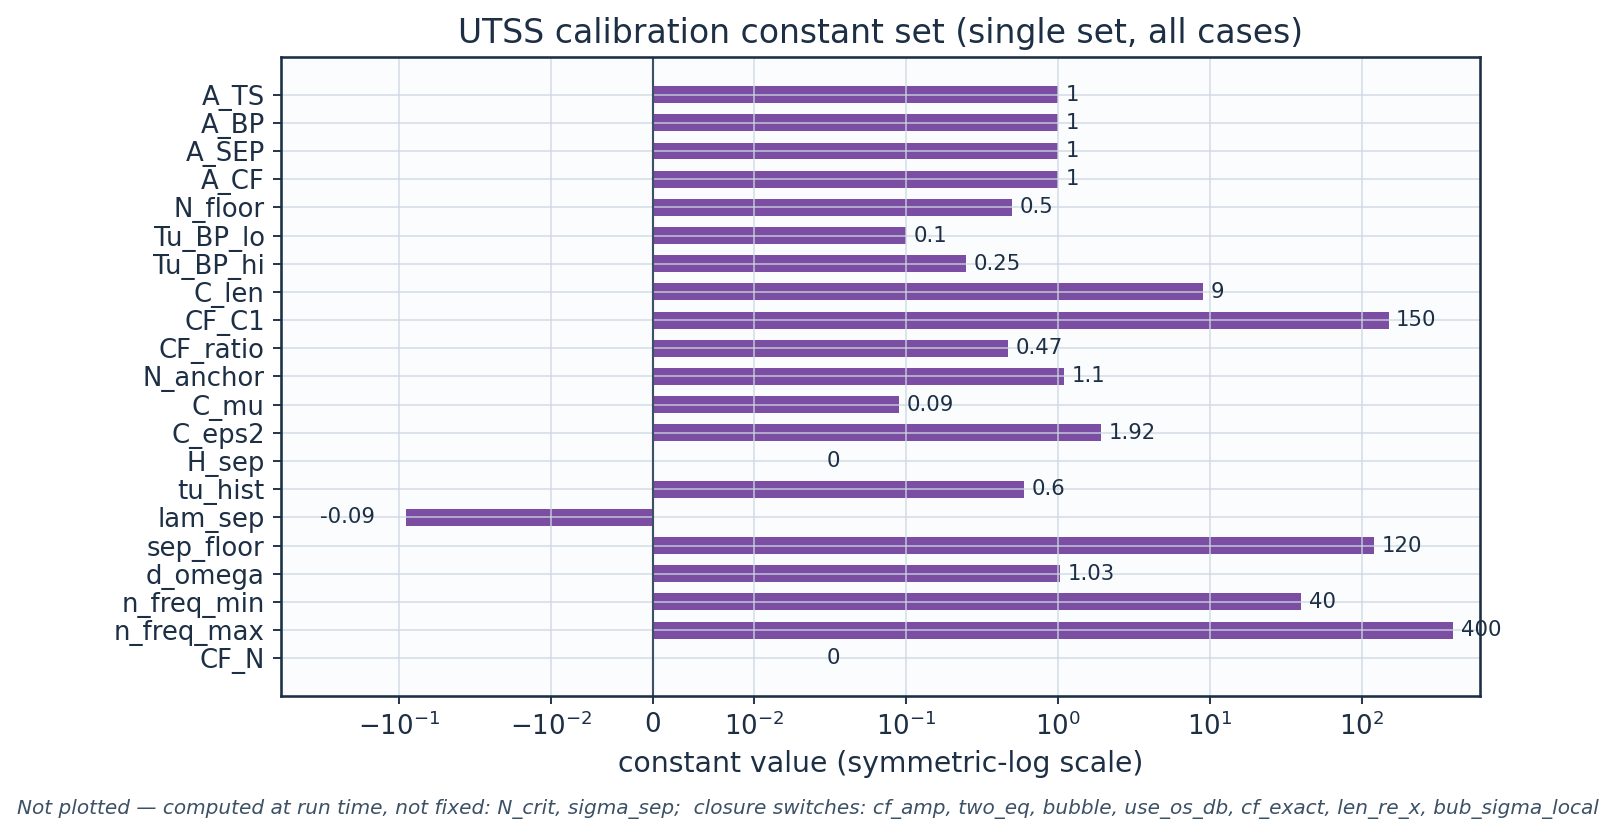
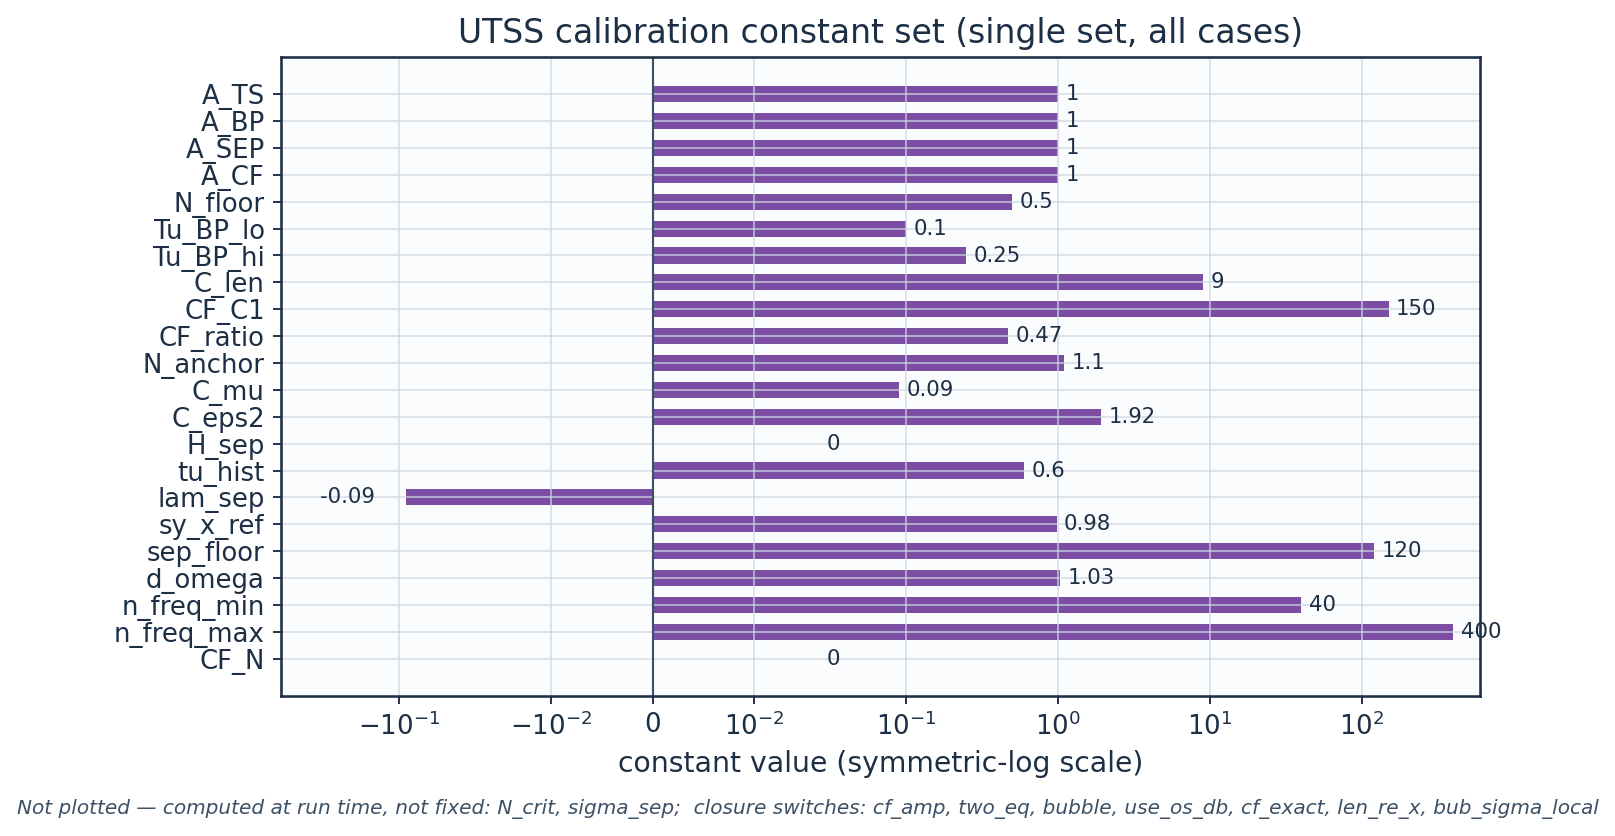
Fifth pass: declare where the drag is evaluated, and that H there is a clamp
The evaluation station of Squire-Young was an undeclared constant sitting under
the headline drag, and it is worth more than anything this study does sweep.

* WHERE.  The formula wants the trailing edge and a panel method cannot supply
  one - it drives the edge velocity to the stagnation value there, and the
  exponent (H+5)/2 turns that into 18 counts against 47.3 - so the evaluation
  is pulled forward to 0.98c.  Nothing measured what that costs.  It is 42.5
  counts at 0.88c against 47.3 at 0.98c, about half a count per per cent of
  chord: an order more than the transition-length constant, whose cost over a
  factor of four is already measured next door at a tenth of a count.  The
  station is a CAL key now, and 04_solution/squire_young_station_sensitivity.csv
  sweeps it.  The docstring said "the result is insensitive to the
  discretisation", which is true of the panel count and reads as a claim about
  the station.

* AND WHETHER THE SHAPE FACTOR THERE IS SOLVED.  Head's entrainment method has
  no validity past separation, so H_turb is clamped at 2.8.  At the evaluation
  station the climb case is ON that clamp, and so are six of the twelve polar
  points - every incidence above about 3 degrees.  The drag at those points is
  formed from a bound, not from a solved shape factor.  This project already
  flagged precisely that hazard for the trailing-edge separation margin
  (H_te_at_clip, which describes the LAST station) and had never applied it to
[…]

Changed region(s): [[0.0619, 0.0933, 0.9288, 0.8086]]

diff --git a/solver/utss_solver.py b/solver/utss_solver.py
@@ -120,6 +120,18 @@ CAL = dict(
     bubble    = True,   # close the separation branch by continuing the
                         # amplification integral through the detached shear
                         # layer instead of transitioning at separation itself
+    sy_x_ref  = 0.98,   # chordwise station at which Squire-Young is evaluated.
+                        # NOT a discretisation parameter: the drag depends on it
+                        # strongly - 42.5 counts at 0.88 against 47.3 at 0.98 on
+                        # the cruise section - because theta grows and the panel
+                        # method collapses U_e towards the trailing edge, and
+                        # Squire-Young raises that ratio to (H+5)/2.  It is
+                        # exposed so that what the choice costs can be measured
+                        # (04_solution/squire_young_station_sensitivity.csv)
+                        # rather than left as an undeclared constant under the
+                        # headline drag.  0.98 is the last station at which the
+                        # cruise shape factor is still solved rather than
+                        # sitting on Head's H = 2.8 clamp; see H_sy_at_clip.
     len_re_x  = False,  # state the transition-length correlation in Re_x, the
                         # form Dhawan & Narasimha published it in, rather than
                         # in Re_theta.  Identical on a flat plate; the Re_theta
@@ -1845,16 +1857,34 @@ def solve_airfoil(xb, yb, alpha_deg, U, nu, chord, Tu_pct,
     al = np.radians(alpha_deg)
     Cl = Cn*np.cos(al) - Ca*np.sin(al)
     # profile drag via Squire-Young on each surface
-    def squire_young(r, x_ref=0.98):
+    def squire_young(r, x_ref=None):
         """Squire-Young profile drag, already referred to the streamwise frame.
 
-        The formula is evaluated at 98% chord rather than at the last panel
-        control point.  A panel method drives the edge velocity towards the
-        stagnation value at a sharp trailing edge, so the final control point
-        sits inside that collapse; since Squire-Young raises Ue/Uinf to the
-        power (H+5)/2, taking the last point makes the drag hypersensitive to
-        the panel distribution.  At 98% chord the boundary-layer solution is
-        still meaningful and the result is insensitive to the discretisation.
+        The formula is evaluated at cal["sy_x_ref"], 98% chord, rather than at
+        the last panel control point.  A panel method drives the edge velocity
+        towards the stagnation value at a sharp trailing edge, so the final
+        control point sits inside that collapse; since Squire-Young raises
+        Ue/Uinf to the power (H+5)/2, taking the last point makes the drag
+        hypersensitive to the panel distribution - at the last point itself the
+        cruise section returns 18 counts against 47.
+
+        WHAT THAT CHOICE COSTS.  The result is insensitive to the PANEL COUNT
+        at this station, which is what this docstring used to say; it is NOT
+        insensitive to the station.  The drag runs from 42.5 counts at 0.88c to
+        47.3 at 0.98c, about half a count per per cent of chord, which is an
+        order more than the transition-length constant is worth over a factor
+        of four.  That is measured into
+        04_solution/squire_young_station_sensitivity.csv rather than left
+        undeclared.
+
+        AND WHETHER THE SHAPE FACTOR THERE IS SOLVED.  Head's entrainment
+        method has no validity past separation, so H_turb is clamped at 2.8.
+        On the climb case and at every incidence above about 3 degrees the
+        upper surface is ON that clamp at 0.98c, so the drag is being formed
+        from a bound rather than from a solved shape factor.  This project
+        already flags exactly that hazard for the trailing-edge separation
+        margin (H_te_at_clip) and did not for the drag, which is the headline
+        number.  H_sy_at_clip says which it is, per surface.
 
         On a swept strip the conversion out of the normal plane is NOT the
         cos^2(L) the lift takes, and it is not a scaling of Squire-Young at all
@@ -1865,6 +1895,8 @@ def solve_airfoil(xb, yb, alpha_deg, U, nu, chord, Tu_pct,
         it depends on that surface's own trailing-edge shape factor and edge
         velocity ratio.
         """
+        if x_ref is None:
+            x_ref = float(cal.get("sy_x_ref", 0.98)) if cal else 0.98
         xs = np.asarray(r["x"], float)
         cand = np.where(xs > 0.5)[0]
         i = (cand[np.argmin(np.abs(xs[cand] - x_ref))] if len(cand)
@@ -1873,6 +1905,10 @@ def solve_airfoil(xb, yb, alpha_deg, U, nu, chord, Tu_pct,
         r["theta_te_c"] = float(th_te/chord)
         r["Ue_te_ratio"] = float(Ue_te/U)
         r["H_te_squire_young"] = float(H_te)
+        r["x_squire_young"] = float(xs[i])
+        # Head's clamp is 2.8; on it, H is a bound and not a solved quantity,
+        # and the drag formed from it is reporting the bound.
+        r["H_sy_at_clip"] = bool(H_te >= 2.8 - 1e-6)
         return 2.0*th_te/chord*_swept_drag_factor(Ue_te/U, H_te, sweep_deg,
                                                   swept=swept)
     Cd = squire_young(res["upper"]) + squire_young(res["lower"])

diff --git a/run_solution.py b/run_solution.py
@@ -66,6 +66,13 @@ def transition_summary(rc, rl):
                 H_te=round(float(s["H_te"]),3),
                 H_te_at_clip=bool(s["H_te_at_clip"]),
                 sep_margin_H=round(float(s["sep_margin_H"]),3),
+                # Whether the SQUIRE-YOUNG station's shape factor is solved or
+                # is Head's H = 2.8 clamp.  H_te_at_clip above describes the
+                # last station; the drag is formed at 0.98c, and on the climb
+                # case that station is on the clamp too.
+                x_sy_c=round(float(s["x_squire_young"]),4),
+                H_sy=round(float(s["H_te_squire_young"]),3),
+                H_sy_at_clip=bool(s["H_sy_at_clip"]),
                 x_sep_turb_c=(round(float(s["x_sep_turb_chord"]),3)
                               if s["x_sep_turb_chord"]==s["x_sep_turb_chord"]
                               else None)))
@@ -83,6 +90,8 @@ def aero_polar():
             L_over_D=round(r["Cl"]/max(r["Cd"],1e-9),1),
             # the thin-layer assumption Squire-Young rests on, made visible
             theta_te_c=round(r["theta_te_c"],5),
+            # half this sweep evaluates Squire-Young on the H = 2.8 clamp
+            H_sy_at_clip=bool(u["H_sy_at_clip"] or l["H_sy_at_clip"]),
             xtr_upper_c=round(u["x_tr_chord"],3) if u["x_tr_chord"]==u["x_tr_chord"] else 1.0,
             xtr_lower_c=round(l["x_tr_chord"],3) if l["x_tr_chord"]==l["x_tr_chord"] else 1.0))
     df=pd.DataFrame(rows); df.to_csv(f"{SOL}/aero_polar.csv",index=False)
@@ -482,6 +491,42 @@ def transition_length_sensitivity():
     return df
 
 
+def squire_young_station_sensitivity():
+    """What the case-study drag owes to WHERE Squire-Young is evaluated.
+
+    The formula wants the trailing edge, and a panel method cannot supply one:
+    it drives the edge velocity towards the stagnation value there, and
+    Squire-Young raises that ratio to (H+5)/2, so the last control point returns
+    18 counts against 47.  The evaluation is therefore pulled forward to 0.98c.
+
+    That is a choice, and unlike the transition-length constant - whose cost is
+    already measured next door, at a tenth of a count over a factor of four -
+    nothing measured this one.  It is worth about half a count per per cent of
+    chord.  The sweep also reports whether the shape factor at each station is
+    still solved or has reached Head's H = 2.8 clamp, because past the clamp the
+    drag is being formed from a bound.
+    """
+    X,Y=C.nlf16_panel_points(130); rows=[]
+    for xr in (0.88,0.90,0.92,0.94,0.96,0.98,0.99):
+        r=solve_airfoil(X,Y,cr["alpha_deg"],cr["U_inf"],cr["nu_inf"],W["MAC"],
+                        cr["Tu_pct"],sweep_deg=W["le_sweep_deg"],
+                        mach=cr["mach"],T_inf_K=cr["T_inf_K"],
+                        cal=dict(sy_x_ref=xr))
+        u=r["surfaces"]["upper"]; l=r["surfaces"]["lower"]
+        rows.append(dict(x_ref=xr,
+            x_evaluated_upper=round(float(u["x_squire_young"]),4),
+            Cd_counts=round(r["Cd"]*1e4,2),
+            H_upper=round(float(u["H_te_squire_young"]),3),
+            H_lower=round(float(l["H_te_squire_young"]),3),
+            theta_te_c_upper=round(float(u["theta_te_c"]),6),
+            H_on_Head_clamp=bool(u["H_sy_at_clip"] or l["H_sy_at_clip"])))
+    df=pd.DataFrame(rows)
+    df["delta_from_shipped_counts"]=(df.Cd_counts
+                                     - float(df[df.x_ref==0.98].Cd_counts.iloc[0])).round(2)
+    df.to_csv(f"{SOL}/squire_young_station_sensitivity.csv",index=False)
+    return df
+
+
 def integrated_forces(rc):
     q=cr["q_inf"]; S=W["area_S"]
     ll=lifting_line()
@@ -529,9 +574,11 @@ if __name__=="__main__":
     nvt,cdn,cdt=nlf_vs_turbulent(rc)
     integrated_forces(rc)
     tls=transition_length_sensitivity()
+    sys_=squire_young_station_sensitivity()
     print("=== TRANSITION SUMMARY ==="); print(ts.to_string(index=False))
     print("\n=== NLF vs TURBULENT ==="); print(nvt.to_string(index=False))
     print("\n=== TRANSITION-LENGTH SENSITIVITY ==="); print(tls.to_string(index=False))
+    print("\n=== SQUIRE-YOUNG STATION SENSITIVITY ==="); print(sys_.to_string(index=False))
     print(f"\nCruise: Cl={rc['Cl']:.3f} Cd={rc['Cd']*1e4:.1f}cts  "
           f"Drag saving={ (cdt-cdn)/cdt*100:.1f}%")
     print("solution files:", sorted([f for f in os.listdir(SOL) if f.endswith('.csv')]))

diff --git a/tools/smoke.py b/tools/smoke.py
@@ -514,6 +514,46 @@ def swept_drag_is_near_unswept_at_small_sweep():
 
 
 @check
+def squire_young_station_is_declared():
+    """the drag says where it was evaluated, and whether H there is a clamp"""
+    import case_config as C
+    from utss_solver import solve_airfoil
+    cr, W = C.CRUISE, C.WING
+    X, Y = C.nlf16_panel_points(80)
+    kw = dict(sweep_deg=W["le_sweep_deg"], mach=cr["mach"],
+              T_inf_K=cr["T_inf_K"])
+
+    # the station is a declared constant, not a literal buried in a closure
+    from utss_solver import CAL
+    assert "sy_x_ref" in CAL and 0.5 < CAL["sy_x_ref"] < 1.0
+
+    # and it moves the drag, so it must be sweepable
+    cds = {}
+    for xr in (0.90, 0.98):
+        r = solve_airfoil(X, Y, cr["alpha_deg"], cr["U_inf"], cr["nu_inf"],
+                          W["MAC"], cr["Tu_pct"], cal=dict(sy_x_ref=xr), **kw)
+        cds[xr] = r["Cd"]*1e4
+        u = r["surfaces"]["upper"]
+        assert abs(u["x_squire_young"] - xr) < 0.03, \
+            "Squire-Young evaluated at %.4f, asked for %.2f" % (u["x_squire_young"], xr)
+    assert cds[0.98] > cds[0.90], "the drag no longer rises towards the trailing edge"
+    assert abs(cds[0.98] - cds[0.90]) > 1.0, (
+        "the evaluation station is worth less than a count now (%.2f vs %.2f); "
+        "the sensitivity table and the text that quotes it need re-checking"
+        % (cds[0.90], cds[0.98]))
+
+    # Head's clamp: the climb case sits on it at the evaluation station, and
+    # the flag has to say so - the drag there is formed from a bound
+    cl = C.CLIMB
+    r = solve_airfoil(X, Y, cl["alpha_deg"], cl["U_inf"], cl["nu_inf"], W["MAC"],
+                      cl["Tu_pct"], sweep_deg=W["le_sweep_deg"],
+                      mach=cl["mach"], T_inf_K=cl["T_inf_K"])
+    u = r["surfaces"]["upper"]
+    assert u["H_sy_at_clip"] == (u["H_te_squire_young"] >= 2.8 - 1e-6), \
+        "H_sy_at_clip disagrees with the shape factor it describes"
+
+
+@check
 def airfoil_output_contract():
     """solve_airfoil returns what run_solution and gen_validation read"""
     import case_config as C
@@ -535,7 +575,8 @@ def airfoil_output_contract():
         for k in ("x", "y", "Cp", "Re_x", "x_tr_chord", "x_sep_chord",
                   "bubble_burst", "theta_te_c", "H_te", "H_te_at_clip",
                   "sep_margin_H", "x_sep_turb_chord", "Me",
-                  "Ue_te_ratio", "H_te_squire_young"):
+                  "Ue_te_ratio", "H_te_squire_young", "x_squire_young",
+                  "H_sy_at_clip"):
             assert k in s, "surface dict lost %r" % k
         assert len(s["x"]) == len(s["s"]) == len(s["Cf"]) == len(s["Me"])
         # the edge Mach number must come off the corrected pressure, not off
@@ -619,6 +660,21 @@ def verify_outputs_contract():
         "document_text does not preserve .docx body order: %r" % txt
     assert V.find_value(txt, "42.0", "ANCHOR CAPTION HERE")[0], \
         "a table value is no longer anchorable to the caption above it"
+
+    # Caption numbering must count FIRST occurrences: a repeat is a
+    # cross-reference, and the renderer wraps lines wherever it likes, so
+    # "... in Table 12. The drag ..." can begin a line and look like a caption.
+    good = "Table 1. A.\nTable 2. B.\nsee\nTable 1. And so on.\nTable 3. C."
+    bad = "Table 1. A.\nTable 3. C.\nTable 2. B."
+    for lab, raw_, want in (("cross-reference", good, True),
+                            ("genuinely out of order", bad, False)):
+        res = dict((n, o) for n, o, _ in
+                   V.structural_checks(V.flatten(raw_), raw_))
+        got = res["Table numbering (%d captions)"
+                  % (3 if want else 3)] if False else None
+        got = [o for n, o, _ in V.structural_checks(V.flatten(raw_), raw_)
+               if n.startswith("Table numbering")][0]
+        assert got is want, "%s: numbering check returned %s" % (lab, got)
 
 
 def main():

diff --git a/build_docx.py b/build_docx.py
@@ -654,7 +654,7 @@ para("This section presents every generated output: numerical tables (CSV) and t
  "curve for each. The boundary-layer state is reported on both surfaces at the cruise and "
  "climb conditions.")
 h2("9.1  Transition prediction summary")
-table_from_csv("04_solution/transition_summary.csv",
+table_from_csv("04_solution/transition_summary.csv", key="ts",
                cap="Transition prediction summary (transition_summary.csv).")
 image("05_postprocessing/csv_plots/transition_summary_bar.png", width=6.0,
       cap="Predicted laminar-flow extent by case and surface (transition_summary.csv).")
@@ -765,6 +765,34 @@ para("The polar carries θ_TE/c, the trailing-edge momentum thickness as a fract
  "rather than typed, and neither was what it returns.)"
  % (float(_pol.theta_te_c.max()), _OFF["te260"], _OFF["te160"], _OFF["te360"],
     _OFF["cd"]))
+_sys = pd.read_csv("04_solution/squire_young_station_sensitivity.csv")
+_sy_ship = _sys[_sys.x_ref == 0.98].iloc[0]
+_sy_lo = _sys.iloc[0]
+_pol_clip = int(pd.read_csv("04_solution/aero_polar.csv").H_sy_at_clip.sum())
+_ts_clip = pd.read_csv("04_solution/transition_summary.csv")
+para("Where Squire-Young is evaluated is a choice, and it is worth more than most of the "
+ "constants this study sweeps. The formula wants the trailing edge and a panel method cannot "
+ "supply one — it drives the edge velocity to the stagnation value there, and the exponent "
+ "(H+5)/2 turns that into 18 counts against %.1f — so the evaluation is pulled forward to "
+ "%.2f c. Over the range either side of that the section drag runs from %.1f counts to %.1f "
+ "(@@TAB:sy_station@@), about half a count per per cent of chord, which is an order more than "
+ "the transition-length constant is worth over a factor of four. Nothing measured it before; "
+ "the docstring said the result was insensitive to the DISCRETISATION, which is true and is a "
+ "different statement."
+ % (_sy_ship.Cd_counts, _sy_ship.x_ref, _sy_lo.Cd_counts, _sy_ship.Cd_counts),
+ italic=True, size=10)
+para("And whether the shape factor at that station is solved. Head's entrainment method has no "
+ "validity past separation, so H is clamped at 2.8, and on the climb case and at every "
+ "incidence above about 3° the upper surface is ON that clamp at the evaluation station — "
+ "%d of the %d polar points, and the climb condition in @@TAB:ts@@ above — the drag there is formed "
+ "from a bound rather than from a solved shape factor. This report already flagged exactly "
+ "that hazard for the trailing-edge separation margin and had not for the drag, which is the "
+ "headline number; H_sy_at_clip now says which it is, per surface and per point."
+ % (_pol_clip, len(pd.read_csv("04_solution/aero_polar.csv"))), italic=True, size=10)
+table_from_csv("04_solution/squire_young_station_sensitivity.csv", key="sy_station",
+               cap="Sensitivity of the section drag to the Squire-Young "
+                   "evaluation station (squire_young_station_sensitivity.csv). "
+                   "The last row is on Head's H = 2.8 clamp.")
 table_from_csv("04_solution/aero_polar.csv", cap="Aerodynamic polar (aero_polar.csv).")
 image("05_postprocessing/csv_plots/aero_polar.png", width=6.3,
       cap="Lift curve, drag polar, L/D and transition vs angle of attack.")

diff --git a/verify_outputs.py b/verify_outputs.py
@@ -284,10 +284,24 @@ def structural_checks(txt, raw):
     for kind, pat in (("Figure", r"Fig\.\s*(\d+)\."),
                       ("Table", r"Table\s*(\d+)\.")):
         seq = [int(m.group(1)) for m in re.finditer(r"(?m)^\s*" + pat, raw)]
-        ok = bool(seq) and seq == list(range(1, len(seq)+1))
-        out.append(("%s numbering (%d captions)" % (kind, len(seq)), ok,
-                    "1..%d in order" % len(seq) if ok
-                    else "out of order: %s" % seq[:20]))
+        # FIRST OCCURRENCES must run 1..N in order.  A repeat of a number
+        # already issued is a CROSS-REFERENCE, not a caption: the renderer
+        # wraps lines wherever it likes, so "... the climb condition in
+        # Table 12. The drag ..." can begin a line and is then indistinguishable
+        # from a caption by position alone.  A caption emitted out of order
+        # still fails, because it introduces a NEW number in the wrong place -
+        # which is the fault this check exists for, and the one hand numbering
+        # used to produce.
+        seen, firsts, repeats = set(), [], []
+        for n in seq:
+            (repeats if n in seen else firsts).append(n)
+            seen.add(n)
+        ok = bool(firsts) and firsts == list(range(1, len(firsts)+1))
+        note = ("1..%d in order%s" % (len(firsts),
+                                      "" if not repeats
+                                      else ", %d cross-reference(s)" % len(repeats))
+                if ok else "out of order: %s" % firsts[:20])
+        out.append(("%s numbering (%d captions)" % (kind, len(firsts)), ok, note))
 
     # No raw float64 repr anywhere in the document.  run_solution.py rounds
     # every column it writes to the precision the quantity is meaningful to;

diff --git a/gen_mesh_setup.py b/gen_mesh_setup.py
@@ -384,6 +384,16 @@ def setup_tables():
         ("tu_hist",CAL["tu_hist"],"weight on the flow-history average of Tu, Tu_eff = Tu_avg^w Tu_local^(1-w)",
          "FITTED on the three ERCOFTAC plates; no effect where Tu does not decay"),
         ("lam_sep",CAL["lam_sep"],"Thwaites parameter at laminar separation","Thwaites (1949) published value; not fitted"),
+        ("sy_x_ref",CAL["sy_x_ref"],
+         "chordwise station at which Squire-Young is evaluated",
+         "NOT a discretisation parameter and not fitted to anything: the "
+         "formula wants the trailing edge and a panel method cannot supply one, "
+         "so the evaluation is pulled forward to the last station at which the "
+         "cruise shape factor is still solved rather than sitting on Head's "
+         "H = 2.8 clamp.  The choice is worth about half a count of section "
+         "drag per per cent of chord - more than any constant swept in this "
+         "table - and what it costs is measured into "
+         "04_solution/squire_young_station_sensitivity.csv"),
         ("sep_floor",CAL["sep_floor"],"min separation-induced onset Re_theta (ablation path only)",
          "superseded by the bubble closure; reachable only with bubble=False"),
         ("d_omega",CAL["d_omega"],"max ratio between adjacent frequencies in the e^N integration",

diff --git a/README.md b/README.md
@@ -53,6 +53,20 @@ from 45.0 to 47.3 counts and leaves it within half a count of the same section
 unswept, which is what 12° of sweep should do to a viscous drag; the drag
 *reduction* is unchanged, both configurations scaling together.
 
+**Where the drag is evaluated is worth more than most of what this study
+sweeps.** Squire-Young wants the trailing edge; a panel method drives the edge
+velocity to the stagnation value there, and the exponent (H+5)/2 turns that into
+18 counts against 47.3, so the evaluation is pulled forward to 0.98c. Over the
+range either side the section drag runs from 42.5 to 47.3 counts — about half a
+count per per cent of chord, an order more than the transition-length constant
+is worth over a factor of four
+(`04_solution/squire_young_station_sensitivity.csv`). And Head's method has no
+validity past separation, so H is clamped at 2.8: on the climb case and at every
+incidence above about 3° the upper surface is ON that clamp at the evaluation
+station — half the polar — and the drag there is formed from a bound rather than
+a solved shape factor. `H_sy_at_clip` says which it is, per surface and per
+point. Both of these were undeclared until the fifth audit pass.
+
 The transition-length correlation is validated on the flat plates below, which
 span Re_x,t = 6×10⁴ to 1.4×10⁶, and extrapolated on the wing, which transitions
 at 3.7×10⁶.  The extrapolation is not damped — that would add an undeclared
@@ -385,7 +399,7 @@ Sources recorded in `06_validation/sources_and_references.csv`.
 07_equations/     equations_index.csv (LaTeX source of every governing equation)
 solver/           utss_solver.py (engine), stability.py (Orr-Sommerfeld +
                   amplification database), case_config.py, uplot.py (style)
-tools/            smoke.py (22 checks over the whole solver, well under a
+tools/            smoke.py (23 checks over the whole solver, well under a
                   minute), pipeline.py (staged regeneration, timings written to
                   .pipeline/timings.json), baseline.py (numeric diff of every
                   generated CSV against a snapshot)
@@ -399,7 +413,7 @@ case.docx         the same report as .docx - a build product, not tracked
 
 ## Reproduce
 ```bash
-python3 tools/smoke.py         # 22 checks over the whole solver, under a minute.
+python3 tools/smoke.py         # 23 checks over the whole solver, under a minute.
                                #   Run this FIRST and after every edit: a full
                                #   regeneration is minutes and the faults
                                #   that waste it are all visible here in the
